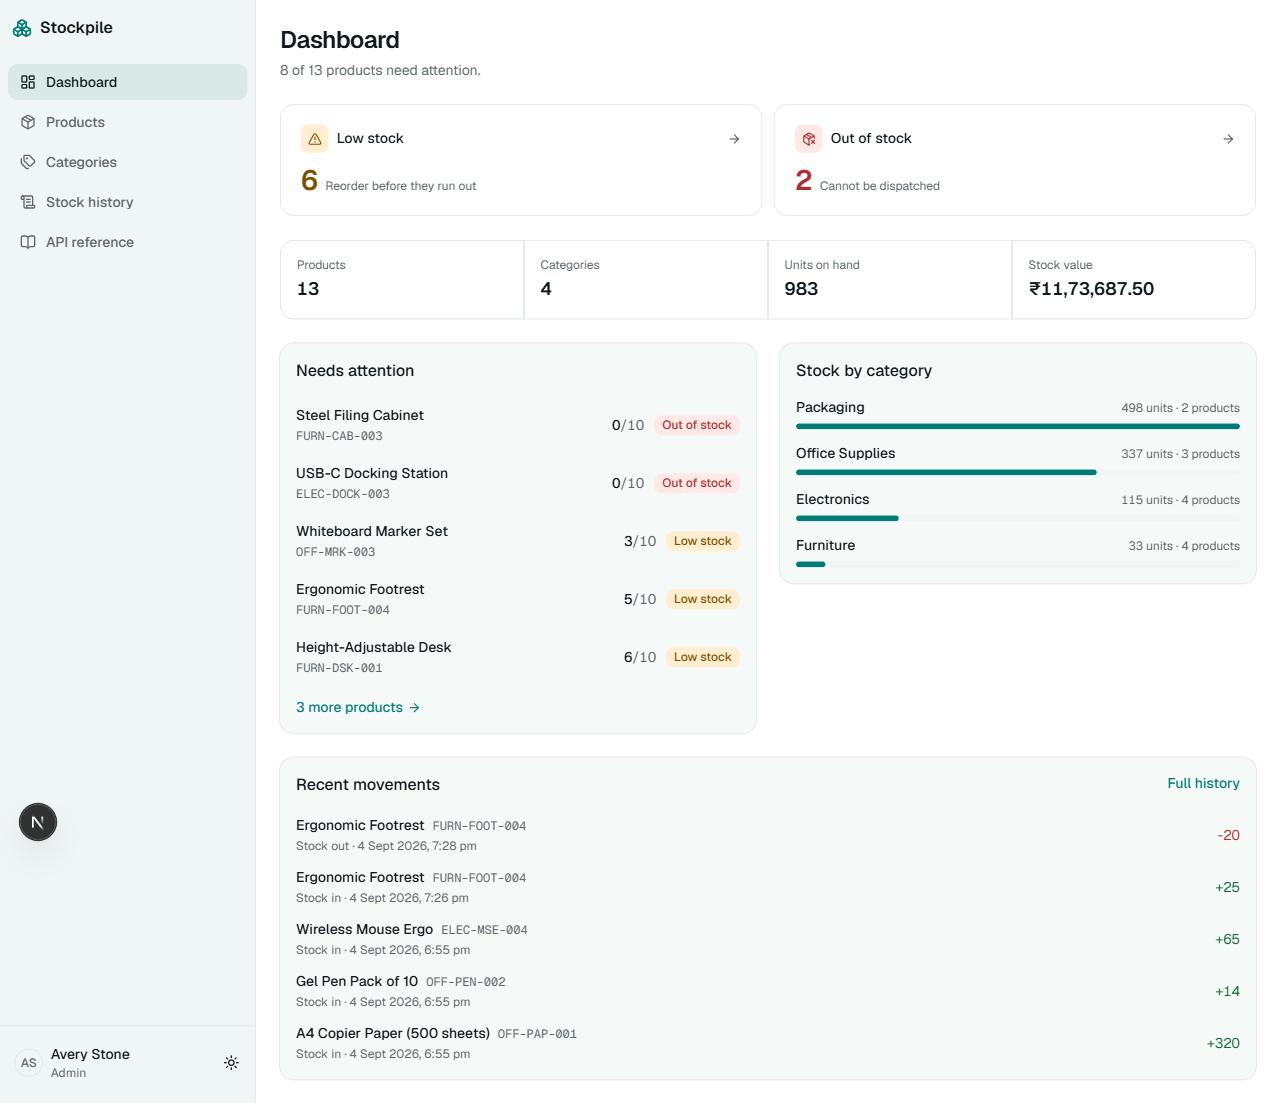
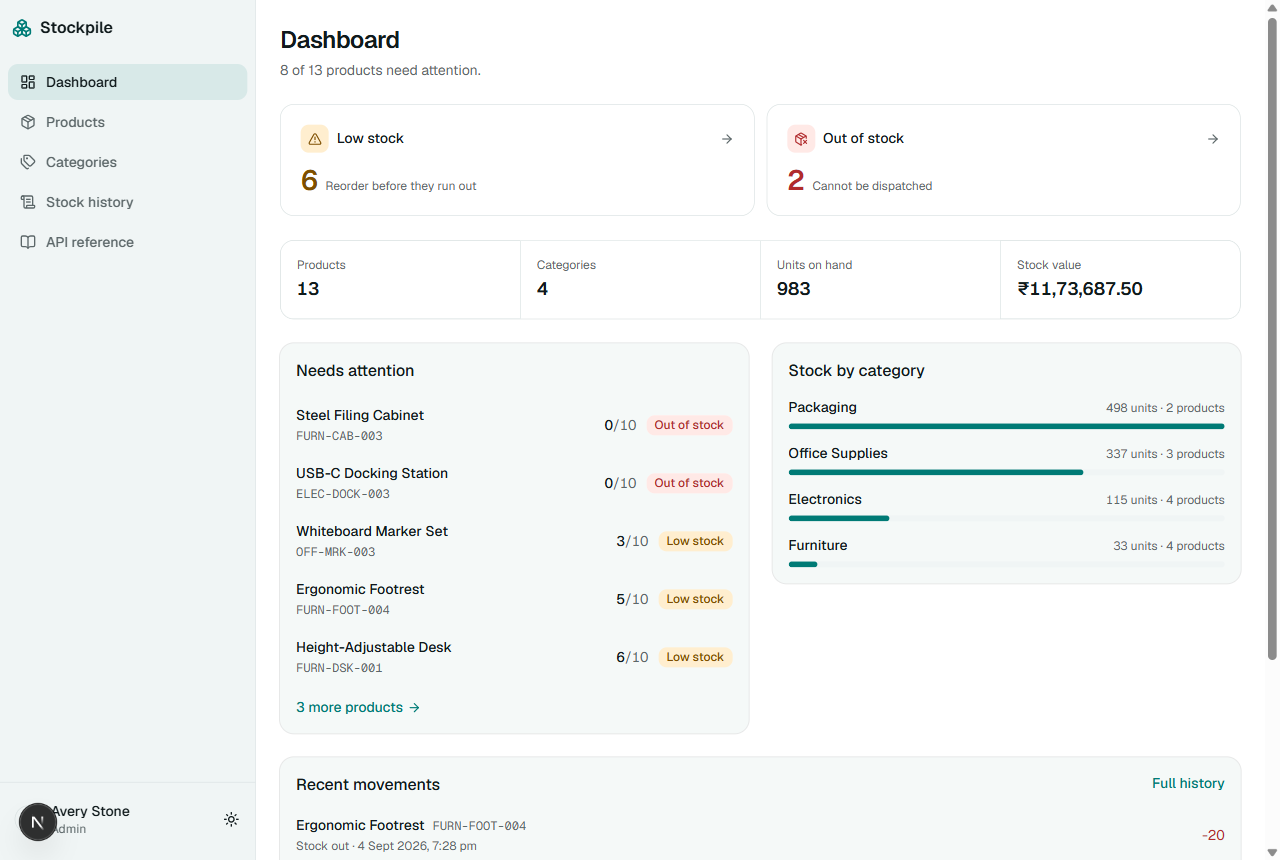
fix: pin the sidebar to the viewport so sign out and theme stay reachable

diff --git a/src/app/(app)/layout.tsx b/src/app/(app)/layout.tsx
@@ -14,15 +14,21 @@ export default async function AppLayout({ children }: LayoutProps<"/">) {
 
   return (
     <div className="flex min-h-svh flex-col lg:grid lg:grid-cols-[16rem_1fr]">
-      <aside className="hidden border-r bg-sidebar py-4 lg:flex lg:flex-col lg:gap-6">
+      {/*
+        Sticky and exactly one viewport tall. As an ordinary grid item the
+        sidebar stretched to the full content height, which put the account
+        row at the bottom of the *page* rather than the bottom of the screen --
+        sign out and the theme toggle were hundreds of pixels below the fold on
+        any page taller than the viewport.
+      */}
+      <aside className="hidden border-r bg-sidebar lg:sticky lg:top-0 lg:flex lg:h-svh lg:flex-col lg:gap-6 lg:py-4">
         <Brand />
-        <div className="px-2">
+        {/* Scrolls on its own if the nav ever outgrows the column, so the
+            footer below stays pinned regardless. */}
+        <div className="min-h-0 flex-1 overflow-y-auto px-2">
           <Nav />
         </div>
-        {/* Account controls live at the foot of the sidebar, which is where
-            this class of app puts them, and which lets the page heading be
-            the topmost thing in the content area. */}
-        <div className="mt-auto flex items-center gap-1 border-t px-2 pt-3">
+        <div className="flex items-center gap-1 border-t px-2 pt-3">
           <UserMenu user={user} showName />
           <ThemeToggle />
         </div>
